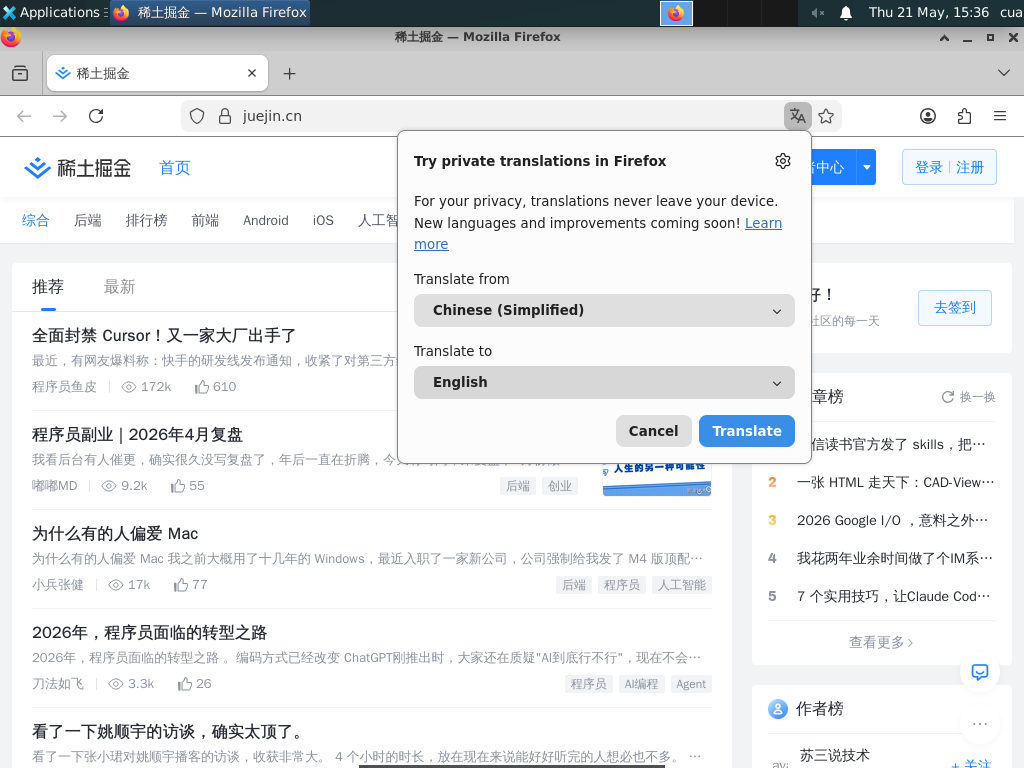
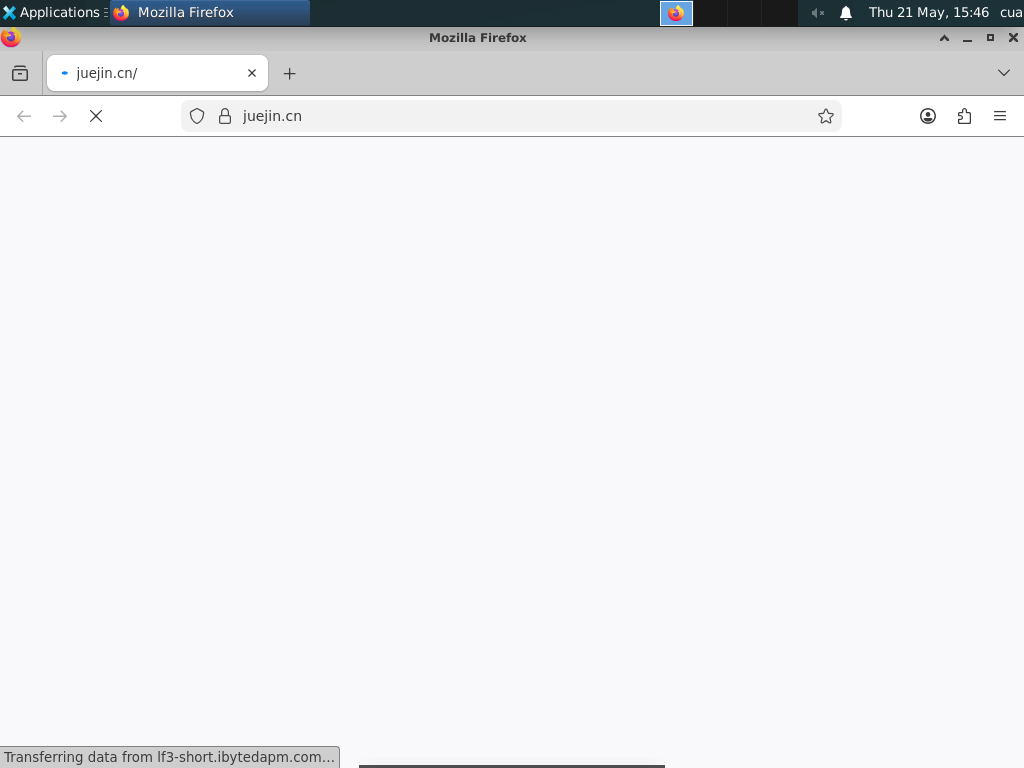
refactor: update SKILL.md for improved key handling and add sandbox_ctl enhancements
Revised the SKILL.md documentation to clarify key input handling, emphasizing the use of lowercase pynput key names. Added detailed explanations for the `sandbox_ctl` interactions with the Cua SDK, including keyboard and scroll actions. Updated example commands to reflect these changes and included new sections for better guidance on usage. Additionally, removed obsolete screenshots and configuration files to streamline the project structure.

diff --git a/scripts/product_analyzer/sandbox_ctl.py b/scripts/product_analyzer/sandbox_ctl.py
@@ -34,6 +34,7 @@ SANDBOX_JSON = "sandbox.json"
 LAST_SHELL_JSON = ".sandbox_ctl_last_shell.json"
 _MIN_SCREENSHOT_BYTES = 1000
 ANALYZER_SANDBOX_PREFIX = "analyzer-"
+_PAGE_LOAD_WAIT_S = 10.0
 
 _cleanup_lock = threading.Lock()
 _cleanup_done = False
@@ -189,8 +190,8 @@ async def cmd_step_open_url(out_dir: Path, url: str, *, launch: bool = True) -> 
     await cmd_step_type(out_dir, url)
     await asyncio.sleep(0.2)
     await cmd_step_key(out_dir, "enter")
-    await asyncio.sleep(2.0)
-    _emit({"ok": True, "action": "open-url", "url": url})
+    await asyncio.sleep(_PAGE_LOAD_WAIT_S)
+    _emit({"ok": True, "action": "open-url", "url": url, "load_wait_s": _PAGE_LOAD_WAIT_S})
     return 0
 
 

diff --git a/tests/sandbox/sandbox_ctl_smoke.py b/tests/sandbox/sandbox_ctl_smoke.py
@@ -169,7 +169,6 @@ def _run_browser_scenario(
     """Batch-worker path: homepage → dismiss modal → scroll → click → reopen URL."""
     saved: list[str] = []
 
-    time.sleep(2.0)
     if not _shot(report, out_dir, "01_web_homepage.png", saved):
         return False, saved
 
@@ -217,7 +216,6 @@ def _run_browser_scenario(
 
     reopen = _run_ctl(["step", "open-url", str(out_dir), url, "--no-launch"])
     _must_ok(report, "open-url no-launch", reopen, soft=True)
-    time.sleep(1.5)
 
     if not _shot(report, out_dir, "04_web_reopen_url.png", saved, soft=True):
         return False, saved